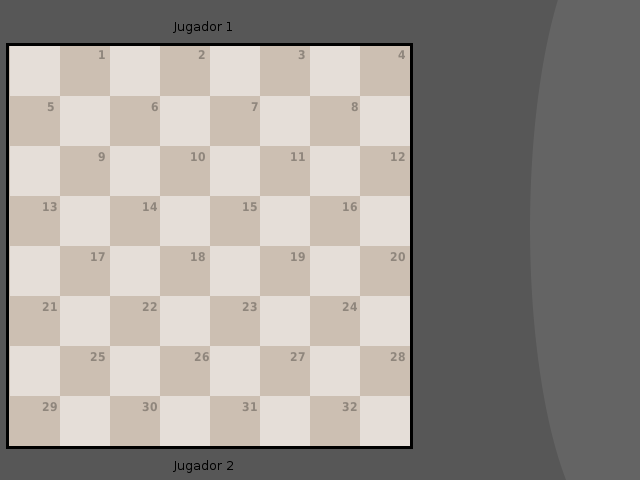
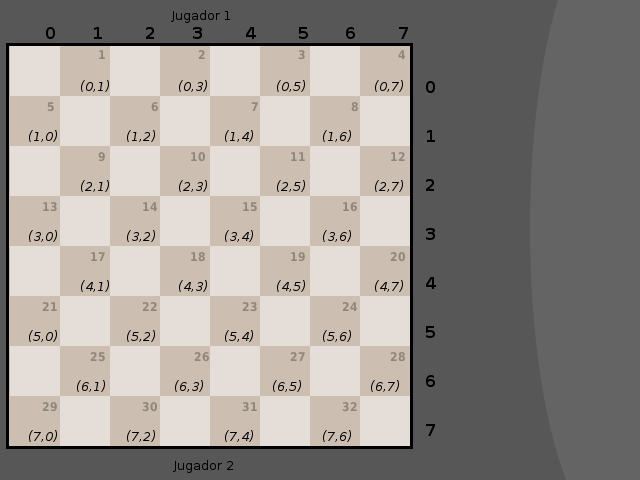
colocando las coordenadas de los casilleros en la imagen del tablero.

diff --git a/checker.py b/checker.py
@@ -69,6 +69,9 @@ class Checker(Sprite):
         #print "Fichas que comen: ", jump_checkers
         #print "Se puede mover a: ", self.table.get_squares_path(self)
 
+        print "Mostrando el camino posible para esta pieza:"
+        print self.table.get_path(self.position, self.player)
+
     def on_mouse_drag(self, dx, dy):
         self.rect.move_ip(dx, dy)
 

diff --git a/table.py b/table.py
@@ -280,3 +280,6 @@ class Table:
         #debug("cambiando pieza")
         self.positions[rf][cf], self.positions[rt][ct] = \
             self.positions[rt][ct], self.positions[rf][cf]
+
+    def get_path(self, position, player):
+        print position, player
